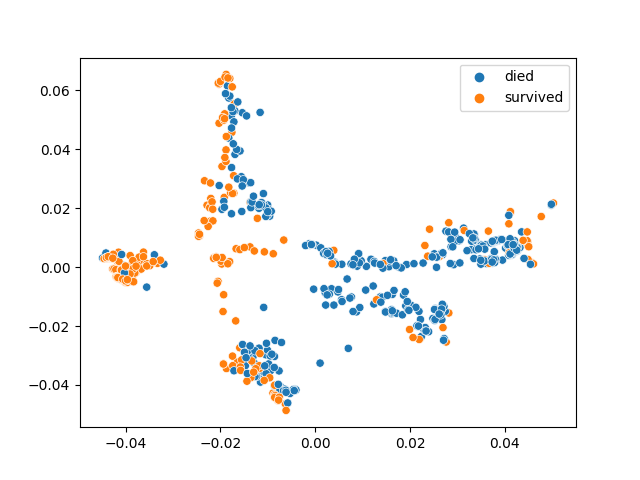
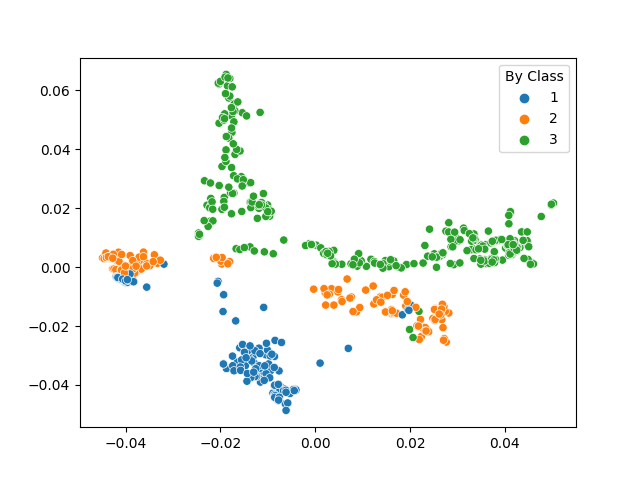
updated readme

diff --git a/README.md b/README.md
@@ -13,7 +13,7 @@ pip install git+https://github.com/jakerhodes/RF-PHATE-Official
 
 The random forest implementation is based on either RandomForestClassifier or RandomForestRegressor from [scikit-learn](https://scikit-learn.org/stable/), depending on the type of response variable (categorical or continuous). The user implicitly chooses the type of random forest model by including either the response variable, $y$, or by stating the *prediction_type* as either 'classification' or 'regression'. If neither $y$ nor *prediction_type* is given, RF-PHATE will assume a categorical response.
 
-Below is a quick demo of how to use RF-PHATE:
+Below is a quick demo of how to use RF-PHATE on the Titanic dataset:
 
 ```python
 from rfphate import RFPHATE
@@ -32,3 +32,22 @@ sns.scatterplot(x = embedding[:, 0], y = embedding[:, 1], hue = pd.Categorical(d
 
 ```
 ![](figures/titanic.png)
+
+
+We can visually explore the relationships between the response (survival) and other feature variables:
+
+By passenger class:
+```python
+sns.scatterplot(x = embedding[:, 0], y = embedding[:, 1], hue = pd.Categorical(data.iloc[:, 1]))
+plt.legend(title = 'By Class')
+```
+
+![](figures/titanic_class.png)
+
+By passenger sex:
+```python
+sns.scatterplot(x = embedding[:, 0], y = embedding[:, 1], hue = pd.Categorical(data.iloc[:, 2]))
+plt.legend(title = 'By Sex')
+```
+
+![](figures/titanic_sex.png)
